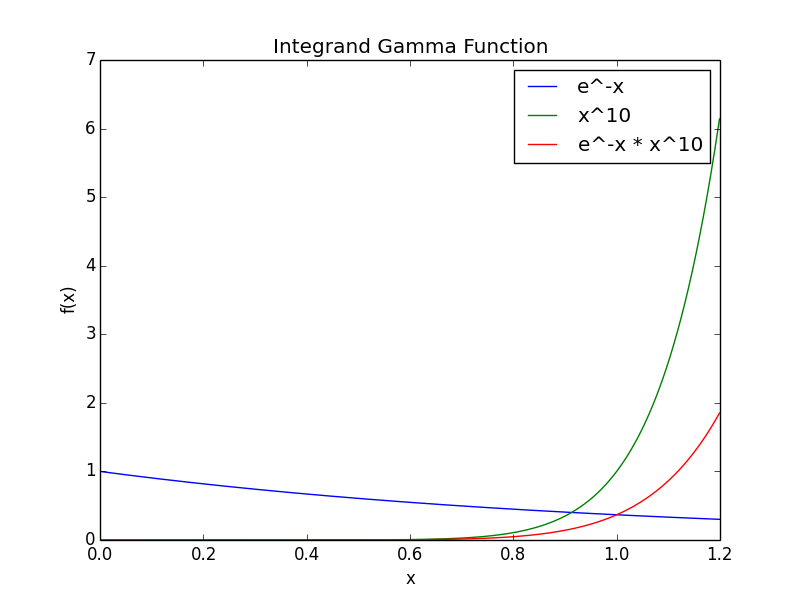
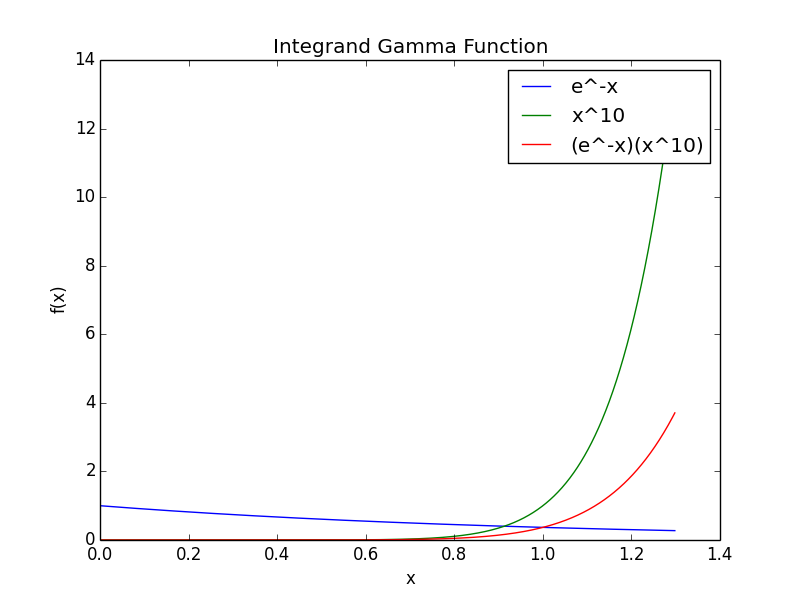
Lecture 5 code

diff --git a/Chem131_C_2017/Lecture_notes/Week_2/lec5_code/plot.py b/Chem131_C_2017/Lecture_notes/Week_2/lec5_code/plot.py
@@ -11,7 +11,7 @@ with open('data.dat') as f:             #open data file to plot
 
     plt.plot(x,y, label='e^-x')                       # plot it
     plt.plot(x,z, label='x^10')                       
-    plt.plot(x,a, label='e^-x * x^10')                       
+    plt.plot(x,a, label='(e^-x)(x^10)')                       
     plt.xlabel('x')
     plt.ylabel('f(x)')
     plt.title ('Integrand Gamma Function')
